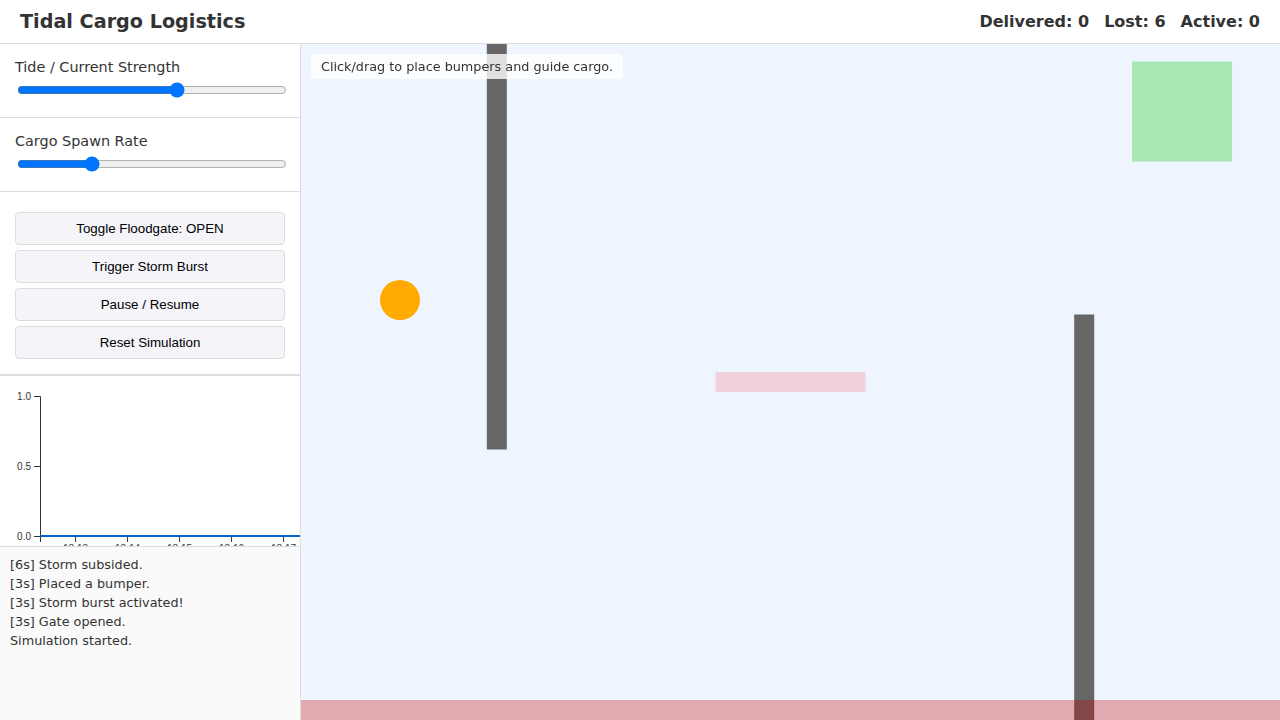
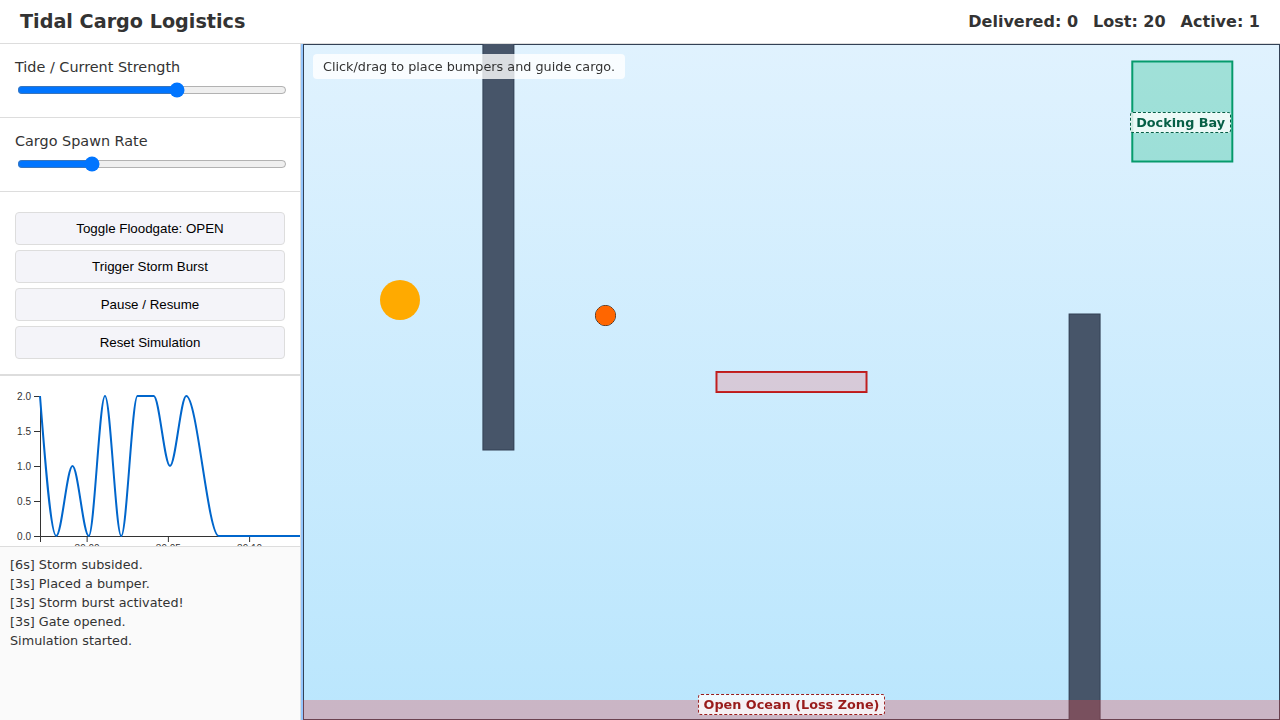
refactor: enhance harbor styling and activity seeding
- Added logic to immediately spawn 15 active cargo bodies on load
- Styled water background with gradient and depth markers
- Colored cargo to resemble orange buoys and brown crates
- Added visual labels for the Docking Bay and Open Ocean loss zones
- Seeded initial historical data for D3 throughput chart to ensure it appears lively on load
- Refreshed Playwright screenshot to reflect the active, populated state

diff --git a/tier-lib/tidal-cargo-physics/index.html b/tier-lib/tidal-cargo-physics/index.html
@@ -96,8 +96,36 @@
     .canvas-container {
       flex: 1;
       position: relative;
-      background: #eef5ff; /* Water color */
+      background: linear-gradient(180deg, #e0f2fe 0%, #bae6fd 100%);
       cursor: crosshair;
+      border-left: 2px solid #93c5fd;
+    }
+    .dock-label {
+      position: absolute;
+      top: 10%;
+      right: 5%;
+      color: #065f46;
+      font-weight: bold;
+      background: rgba(255, 255, 255, 0.8);
+      padding: 2px 5px;
+      border-radius: 3px;
+      pointer-events: none;
+      font-size: 0.8rem;
+      border: 1px dashed #065f46;
+    }
+    .loss-label {
+      position: absolute;
+      bottom: 5px;
+      left: 50%;
+      transform: translateX(-50%);
+      color: #991b1b;
+      font-weight: bold;
+      background: rgba(255, 255, 255, 0.8);
+      padding: 2px 5px;
+      border-radius: 3px;
+      pointer-events: none;
+      font-size: 0.8rem;
+      border: 1px dashed #991b1b;
     }
     canvas {
       display: block;
@@ -165,6 +193,8 @@
     </div>
     <div class="canvas-container" id="canvas-container">
       <div class="instructions">Click/drag to place bumpers and guide cargo.</div>
+      <div class="dock-label">Docking Bay</div>
+      <div class="loss-label">Open Ocean (Loss Zone)</div>
       <!-- Matter.js canvas will be injected here -->
     </div>
   </div>
@@ -218,7 +248,7 @@
       });
 
       // Boundaries
-      const wallOptions = { isStatic: true, render: { fillStyle: '#666' } };
+      const wallOptions = { isStatic: true, render: { fillStyle: '#475569', strokeStyle: '#334155', lineWidth: 2 } };
       Composite.add(engine.world, [
         Bodies.rectangle(width / 2, -25, width, 50, wallOptions),
         Bodies.rectangle(width / 2, height + 25, width, 50, wallOptions),
@@ -226,15 +256,15 @@
         Bodies.rectangle(width + 25, height / 2, 50, height, wallOptions)
       ]);
 
-      // Harbor environment
+      // Harbor environment (Piers)
       const harborParts = [
-        Bodies.rectangle(width * 0.2, height * 0.3, 20, height * 0.6, wallOptions),
-        Bodies.rectangle(width * 0.8, height * 0.7, 20, height * 0.6, wallOptions)
+        Bodies.rectangle(width * 0.2, height * 0.3, 30, height * 0.6, wallOptions),
+        Bodies.rectangle(width * 0.8, height * 0.7, 30, height * 0.6, wallOptions)
       ];
       Composite.add(engine.world, harborParts);
 
       // Gate
-      const gateOptions = { isStatic: true, render: { fillStyle: '#ff4444' } };
+      const gateOptions = { isStatic: true, render: { fillStyle: '#ef4444', strokeStyle: '#b91c1c', lineWidth: 2 } };
       const gate = Bodies.rectangle(width * 0.5, height * 0.5, 150, 20, gateOptions);
       Composite.add(engine.world, gate);
       engine.world.plugin = engine.world.plugin || {};
@@ -244,7 +274,7 @@
       const dock = Bodies.rectangle(width * 0.9, height * 0.1, 100, 100, {
         isStatic: true,
         isSensor: true,
-        render: { fillStyle: 'rgba(0, 200, 0, 0.3)' },
+        render: { fillStyle: 'rgba(16, 185, 129, 0.3)', strokeStyle: '#059669', lineWidth: 2 },
         label: 'dock'
       });
       Composite.add(engine.world, dock);
@@ -253,7 +283,7 @@
       const lossZone = Bodies.rectangle(width * 0.5, height - 10, width, 20, {
         isStatic: true,
         isSensor: true,
-        render: { fillStyle: 'rgba(200, 0, 0, 0.3)' },
+        render: { fillStyle: 'rgba(239, 68, 68, 0.3)' },
         label: 'lossZone'
       });
       Composite.add(engine.world, lossZone);
@@ -339,18 +369,43 @@
         }
       });
 
+      // Seed initial cargo to ensure the world is active right away
+      for (let i = 0; i < 15; i++) {
+        spawnCargo(width, Math.random() * height * 0.8 + 50);
+      }
+
       Render.run(render);
       runner = Runner.create();
       Runner.run(runner, engine);
     }
 
-    function spawnCargo(width) {
+    function spawnCargo(width, initialY = 10) {
       const startX = Math.random() * (width * 0.4) + width * 0.1;
-      const cargo = Bodies.rectangle(startX, 10, 15, 15, {
-        label: 'cargo',
-        frictionAir: 0.05,
-        render: { fillStyle: '#33aa33' }
-      });
+      // Make some circular buoys and some square crates
+      const isBuoy = Math.random() > 0.5;
+      let cargo;
+
+      const renderOpts = {
+        fillStyle: isBuoy ? '#ff6600' : '#8b5a2b',
+        strokeStyle: '#000',
+        lineWidth: 1
+      };
+
+      if (isBuoy) {
+        cargo = Bodies.circle(startX, initialY, 10, {
+          label: 'cargo',
+          frictionAir: 0.05,
+          restitution: 0.6,
+          render: renderOpts
+        });
+      } else {
+        cargo = Bodies.rectangle(startX, initialY, 18, 18, {
+          label: 'cargo',
+          frictionAir: 0.05,
+          restitution: 0.2,
+          render: renderOpts
+        });
+      }
       Composite.add(engine.world, cargo);
     }
 
@@ -439,6 +494,13 @@
       .attr("stroke-width", 2);
 
     let throughputData = [];
+
+    // Seed initial D3 data so the chart isn't empty on load
+    const initDate = new Date();
+    for(let i=10; i>0; i--) {
+      throughputData.push({ time: new Date(initDate.getTime() - i * 1000), rate: Math.floor(Math.random() * 3) });
+    }
+
     let deliveriesInWindow = 0;
 
     window.addEventListener('cargoDelivered', () => {
